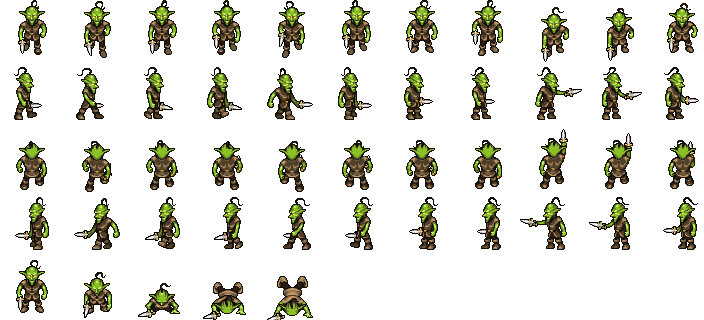
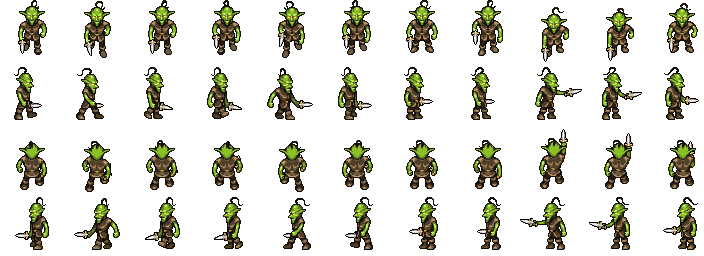
fixed goblin animation, added slime animation

diff --git a/src/enemies.py b/src/enemies.py
@@ -5,13 +5,15 @@ This module handles the creation and management of enemies. It provides classes 
 
 import pygame
 import random
+from enum import Enum
+import math
 
 import config
 
 image_dict = config.load_enemies_images()
 
 class Enemy(pygame.sprite.Sprite):
-    def __init__(self, pos, sprite_sheet, frames_x, frames_y, health, speed, damage, attack_range, attack_delay, player, bullets_group, group, colliders=None):
+    def __init__(self, pos, sprite_sheet, frames_x, frames_y, health, speed, damage, attack_range, attack_delay, player, bullets_group, group, colliders=None, additional_image=None):
         """
         Initializes the Enemy sprite with specified attributes.
 
@@ -35,6 +37,7 @@ class Enemy(pygame.sprite.Sprite):
 
         # Loading image
         self.sprite_sheet = sprite_sheet
+        self.additional_image = additional_image
 
         self.frames_x = frames_x
         self.frames_y = frames_y
@@ -63,7 +66,7 @@ class Enemy(pygame.sprite.Sprite):
         self.attack_range = attack_range
         self.attack_delay = attack_delay
         self.attack_counter = 50  # Time between attacks
-
+        
         # Player interaction
         self.attack_counter = 0
         self.target = player
@@ -99,6 +102,7 @@ class Enemy(pygame.sprite.Sprite):
 
         """
         # Increment frame counter and update frame index
+
         self.frame_counter += 1
         if self.frame_counter >= self.animation_speed:
             self.current_frame_index = (self.current_frame_index + 1) % len(self.frames)
@@ -235,13 +239,18 @@ class Enemy(pygame.sprite.Sprite):
         """
         self.target = new_target
 
+class Direction(Enum):
+    UP = 0
+    DOWN = 1
+    LEFT = 2
+    RIGHT = 3
 
 class Goblin(Enemy):
     def __init__(self, pos, player, bullets_group, group):
         # Initialize the sprite sheet and animation parameters
         self.sprite_sheet = image_dict["GOBLIN"]
         self.frames_x = 11  # colums
-        self.frames_y = 5  # lines
+        self.frames_y = 4  # lines
         self.health = 500
         self.speed = random.uniform(2, 6)  # Random speed for each goblin
         self.damage = 100
@@ -268,6 +277,7 @@ class Goblin(Enemy):
         self.divided_frames = [self.frames[i:i+self.frames_x] for i in range(0, len(self.frames), self.frames_x)]
 
     def behavior(self):
+        self.animate()
         self.track_player()
         self.attack_counter += 1
         if self.player_distance() <= self.attack_range:
@@ -275,9 +285,44 @@ class Goblin(Enemy):
                 # Attack the player if within range
                 self.attack(self.target)
                 self.attack_counter = 0
+        
+        # Calculate the angle in degrees from the direction vector
+        angle = math.degrees(math.atan2(self.direction.y, self.direction.x))  # Convert radians to degrees
+        
+        # Determine the movement direction based on the angle
+        if angle >= -45 and angle < 45:
+            self.current_direction = Direction.RIGHT
+        elif angle >= -135 and angle < -45: 
+            self.current_direction = Direction.UP
+        elif angle >= 135 or angle < -135:
+            self.current_direction = Direction.LEFT
+        elif angle >= 45 and angle < 135: 
+            self.current_direction = Direction.DOWN
 
 
+    def animate(self):
+        """
+        Updates the current animation frame based on the animation speed and direction.
+        """
+        # Increment the frame counter and update the frame index
+        self.frame_counter += 1
+        
+        if self.frame_counter >= self.animation_speed:
+            # Select the row of frames based on the current direction
+            if self.current_direction == Direction.UP:
+                row = 2
+            elif self.current_direction == Direction.DOWN:
+                row = 0
+            elif self.current_direction == Direction.LEFT:
+                row = 3
+            elif self.current_direction == Direction.RIGHT:
+                row = 1
 
+            # Update the current frame index and reset the counter
+            self.current_frame_index = (self.current_frame_index + 1) % self.frames_x
+            self.image = self.divided_frames[row][self.current_frame_index]
+            
+            self.frame_counter = 0
 
 def generate_goblins(num_goblins, top, bottom, left, right, player, bullets_group, goblins_group):
     for _ in range(num_goblins):
@@ -338,63 +383,9 @@ class Andromaluis(Enemy):
         # Decrease the generation timer
         self.generation_timer -= 1
 
-
-
-class Centipede(Enemy):
-    def __init__(self, pos, player, bullets_group):
-        """
-        Initialize the Centipede class with specific attributes such as sprite sheet, health, 
-        speed, damage, attack delay, and attack range.
-
-        :param pos: The initial position of the centipede.
-        :param player: The player object that the centipede will target.
-        :param bullets_group: The group of bullets for collision detection.
-        """
-        self.sprite_sheet = "assets\\images\\enemies\\Centipeder\\Centipede_walk.png"
-        self.frames_x = 4
-        self.frames_y = 1
-        self.health = 50
-        self.speed = 3
-        self.damage = 40
-        self.attack_delay = 50
-        self.attack_range = 50
-
-        super().__init__(pos, self.sprite_sheet, self.frames_x, self.frames_y, self.health, self.speed, self.damage, self.attack_range, self.attack_delay, player, bullets_group)
-
-    def load_frames(self):
-        """
-        Load the frames from the sprite sheet and divide them into sublists based on the movement direction.
-        """
-        # Calculate frame dimensions
-        frame_width = self.sprite_sheet.get_width() // self.frames_x
-        frame_height = self.sprite_sheet.get_height() // self.frames_y
-
-        self.frames = []
-        for y in range(self.frames_y):
-            for x in range(self.frames_x):
-                # Extract each frame from the sprite sheet
-                frame = self.sprite_sheet.subsurface((x * frame_width, y * frame_height, frame_width, frame_height))
-                redimensioned_frame = pygame.transform.scale(frame, (int(frame_width), int(frame_height)))
-                self.frames.append(redimensioned_frame)
-
-        # Divide frames into sublists for each direction
-        self.divided_frames = [self.frames[i:i+self.frames_x] for i in range(0, len(self.frames), self.frames_x)]
-
-    def behavior(self):
-        """
-        Define the behavior of the Centipede. The centipede will either track the player or attack 
-        if within range.
-        """
-        if self.player_distance() > self.attack_range:
-            # Track the player if the distance is greater than the attack range
-            self.track_player()
-        else:
-            # If within attack range, perform an attack
-            if self.attack_counter >= self.attack_delay:
-                self.attack(self.target)
-                self.attack_counter = 0
-        self.attack_counter += 1
-
+class action(Enum):
+    IDLE = 0
+    ATTACK = 1
 
 class Slime(Enemy):
     def __init__(self, pos, player, bullets_group, level, group):
@@ -409,6 +400,7 @@ class Slime(Enemy):
         :param group: The group to which the slime belongs, used for collision detection.
         """
         self.sprite_sheet = image_dict["SLIME"]
+        self.original_image = self.sprite_sheet
         self.frames_x = 4
         self.frames_y = 2
         self.level = min(level, 3)
@@ -416,13 +408,15 @@ class Slime(Enemy):
         self.speed = 8 - self.level
         self.damage = 20 * self.level
         self.attack_delay = 100
-        self.attack_range = 10
+        self.attack_range = 100
         self.level = level
-        super().__init__(pos, self.sprite_sheet, self.frames_x, self.frames_y, self.health, self.speed, self.damage, self.attack_range, self.attack_delay, player, bullets_group, group)
+        super().__init__(pos, self.sprite_sheet, self.frames_x, self.frames_y, self.health, self.speed, self.damage, self.attack_range, self.attack_delay, player, bullets_group, group, additional_image=image_dict["SLIMEATTACK"])
         self.sprite_sheet = pygame.transform.scale_by(self.sprite_sheet, self.level)
+        self.additional_image = pygame.transform.scale_by(self.additional_image, self.level)
         self.load_frames()
         self.rect = self.image.get_rect(center=pos)
         self.rect.size = (64 * self.level - 32, 64 * self.level - 32)
+        
 
     def load_frames(self):
         """
@@ -435,8 +429,10 @@ class Slime(Enemy):
         frame_height = self.sprite_sheet.get_height() // self.frames_y
 
         self.frames = []
-        for y in range(self.frames_y):
-            for x in range(self.frames_x):
+        self.idle_frames = []
+        self.attack_frames = []
+        for y in range(2):
+            for x in range(4):
                 # Calculate the cutting position to get the bottom 80% of the frame
                 y_offset = y * frame_height + int(frame_height * 0.3)  # Starting from 30% of the frame height
                 new_frame_height = int(frame_height * 0.7)  # The height of the cut will be 80% of the original frame height
@@ -447,7 +443,11 @@ class Slime(Enemy):
                 # Resize to the original size
                 redimensioned_frame = pygame.transform.scale(frame, (frame_width, new_frame_height))
 
-                self.frames.append(redimensioned_frame)
+                self.idle_frames.append(redimensioned_frame)
+        for x in range(4):
+            frame_ = self.additional_image.subsurface((x * frame_width, 0, frame_width,  frame_height))
+            self.attack_frames.append(frame_)
+        self.frames = self.idle_frames
 
         # Divide the frames into sublists for each direction
         self.divided_frames = [self.frames[i:i + self.frames_x] for i in range(0, len(self.frames), self.frames_x)]
@@ -461,9 +461,16 @@ class Slime(Enemy):
         self.attack_counter += 1
         if self.player_distance() <= self.attack_range:
             # Attack the player if within range and the attack delay has passed
+            self.frames = self.attack_frames
+            self.frames_y = 1
+            self.animation_speed = 15
             if self.attack_counter >= self.attack_delay:
                 self.attack(self.target)
                 self.attack_counter = 0
+        else:
+            self.frames = self.idle_frames
+            self.animation_speed = 10
+            self.frames_y = 2
 
     def duplicate(self):
         """
@@ -550,6 +557,9 @@ class AlienBat(Enemy):
         child = AlienBat(self.position, self.target, self.bullets, self.group)
         self.duplicate = False
 
+
+
+
 class EnemyWaveControler:
     def __init__(self, target, map_bounds, enemy_group, bullets_group, collide_rects):
         self.target = target
@@ -562,9 +572,9 @@ class EnemyWaveControler:
         self.collide_rects = collide_rects
         self.last_wave_time = -self.wave_timer
         self.enemy_types = {
-            "alienbat":(AlienBat, 0.4),
+            "alienbat":(AlienBat, 0.5),
             "Goblin":(Goblin, 0.3),
-            "Slime":(Slime, 0.2),
+            "Slime":(Slime, 0.1),
             "Andromaluis":(Andromaluis, 0.1)
         }
 
@@ -606,5 +616,3 @@ class EnemyWaveControler:
             self.wave_generator(num_enemies)
             self.last_wave_time = current_time
         self.active_enemies = [enemy for enemy in self.active_enemies if enemy.alive()]
-
-        

diff --git a/src/skills.py b/src/skills.py
@@ -208,8 +208,8 @@ class TimeManipulation(Skill):
         if not self.is_on_cooldown:
             self.sound.play()
             for enemy in player.enemies:
-                enemy.speed = max(int(enemy.speed / 5), 2)  # Decreases enemy speed with a lower limit
-                enemy.animation_speed = min(enemy.animation_speed * 2, 30)  # Increases animation speed
+                enemy.speed = max(int(enemy.speed /6), 2)  # Decreases enemy speed with a lower limit
+                enemy.animation_speed = min(enemy.animation_speed * 3, 30)  # Increases animation speed
             self.last_used_time = pygame.time.get_ticks()
             self.is_on_cooldown = True
             self.end_time = pygame.time.get_ticks() + self.duration
@@ -388,7 +388,7 @@ class Bloodlust(Skill):
     def __init__(self):
         self.key = "Q"
         self.name = "Sede de Sangue"
-        self.description = "Por um breve período, BladeMaster causa mais dano e abater inimigos restaura vida, mas ele sofre dano aumentado de todas as fontes."
+        self.description = "Por um breve período, BladeMaster causa mais dano, ataca com maior freqência e \n abater inimigos restaura vida, mas ele sofre dano aumentado de todas as fontes."
         self.cooldown = 10000
         self.image = "assets\\images\\icons\\bloodlust_icon.png"
         self.duration = 3500

diff --git a/src/config.py b/src/config.py
@@ -22,10 +22,13 @@ class FilesPath(Enum):
     """
     EXPLOSION1 = [f"assets\\images\\explosions\\explosion1\\Explosion_{i}.png" for i in range(1, 10)]
     BACKGROUND = "assets\\background_files\\map009.png"
+
     ANDROMALUIS = "assets\\images\\enemies\\andromaluis\\andromalius.png"
     SLIME = "assets\\images\\enemies\\Slime\\slime_idle.png"
+    SLIMEATTACK = "assets\\images\\enemies\\Slime\\slime_attack.png"
     ALIENBAT = "assets\\images\\enemies\\alien_bat\\alien_bat.png"
     GOBLIN = "assets\\images\\enemies\\goblins\\goblinsword.png"
+
     CYBORGIDLE = "assets\\images\\Player\\cyborg\\Idle.png"
     CYBORGWALK = "assets\\images\Player\cyborg\\Walk.png"
     CYBORGWALKUP = "assets\\images\\Player\\cyborg\\WalkUp.png"
@@ -107,7 +110,7 @@ def load_enemies_images():
 
     """
     pygame.init()
-    subset = list(FilesPath)[2:6]
+    subset = list(FilesPath)[2:]
     image_dict = {item.name: pygame.image.load(item.value) for item in subset}
     return image_dict
 
